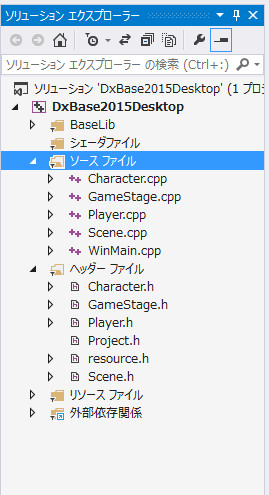
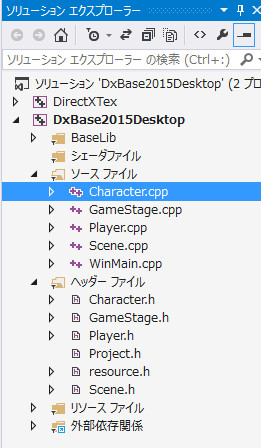
ドキュメント修正とチュートリアル003修正

diff --git a/Documents/00_03.html b/Documents/00_03.html
@@ -1,0 +1,104 @@
+<!DOCTYPE HTML PUBLIC "-//W3C//DTD HTML 4.01 Trからのぷろansitional//EN">
+<html lang="ja">
+<head>
+<meta http-equiv="Content-Type" content="text/html; charset=utf-8">
+<link href="css/main.css" rel="stylesheet" type="text/css">
+<title>DxBase2015ドキュメント(2015年)</title>
+</head>
+<body>
+<!-- 全体コンテナ　-->
+<div id="container">
+<div id="header">
+<h2>０．チュートリアル</h2>
+</div>
+<!-- コンテンツ　-->
+<div id="contents">
+<h3>００３．オブジェクトを動かす</h3>
+<br />
+<h4>Transformコンポーネントによる移動</h4>
+　前項で紹介したような配置されたオブジェクト（配置オブジェクト）を移動したり回転させたりする場合は、いろいろな方法がありますが、一番簡単なのは<b>Transformコンポーネント</b>のパラメータを変化させる方法でしょう。<br />
+　<b>Tutorial003ディレクトリ</b>内のソリューション<b>DxBase2015Desktop.sln</b>を<b>VisualStdio2013</b>で開くと以下のような実行画面が出てきて、ボックスが左右に移動します。
+<p>&nbsp;</p>
+<img src="img/0003a.jpg" width="80%"/>
+<p>図0003a</p>
+<p>&nbsp;</p>
+　これは、配置オブジェクトの<b>TransformコンポーネントPosition</b>を変化させて実装しています。<br /
+>
+<br />
+<h4>Update()仮想関数</h4>
+　ボックスを作成するには、前項のように、<b>Character.h、Character.cpp</b>に、<b>Boxクラス</b>を記述して、<b>GameStage.h、GameStage.cpp</b>で、<b>AddGameObjec()テンプレート関数</b>を呼び出します。ここまでは同じです。<br />
+　配置されたオブジェクトを変化させるには<b>Update()仮想関数を多重定義（オーバーライド）</b>します。<br />
+　以下は、<b>Character.h</b>に記述された、<b>BoxクラスのUpdate()関数の宣言</b>です。
+<div class="box1">
+<pre>
+    //更新
+    virtual void Update() override;
+</pre>
+</div>
+　仮想関数のオーバーライドをあらわす<b>override</b>は、C++11になって出てきた文法です。間違った多重定義があった場合、コンパイラがエラーにしてくれますので、つけるようにしましょう。<br />
+　そして、以下は、<b>BoxクラスのUpdate()関数の実体</b>です。<b>Character.cpp</b>に記述されています。<div class="box1">
+<pre>
+//更新
+void Box::Update(){
+    //前回のターンからの経過時間を求める
+    float ElapsedTime = App::GetApp()->GetElapsedTime();
+    auto PtrTransform = GetComponent&lt;Transform>();
+    //位置の取得
+    auto Pos = PtrTransform->GetPosition();
+    //値を変化させる
+    Pos.x += m_Span * ElapsedTime;
+    if (abs(Pos.x) > 3.0f){
+        //もし左右3.0を超えたら反転
+        m_Span *= -1.0f;
+    }
+    //新しい位置を設定
+    PtrTransform->SetPosition(Pos);
+}
+</pre>
+</div>
+　<b>Update()仮想関数</b>は、<b>ターン</b>のたびに呼ばれます。<b>ターン</b>というのは、おおむね60分の1秒に1度呼ばれる、処理のタイミングです。<br />
+　ほとんどのゲームソフトは、<b>無限ループで動作</b>し続けていて、その間に更新処理や描画処理を行います。ですからゲームのプログラミングの大きなウェイトはその<b>ターン毎の処理を記述する</b>ということです。<br />
+　アニメーションは、映画の1コマ1コマを変化させて動きを演出します。映画の場合は1コマは24分の1秒です。<br />
+　ゲームの場合は、固定長のターンと可変長のターンがあります。<b>DxBase2015</b>の場合は、デフォルトは可変長のターンです。Windowsマシンは、CPUやアクセラレータのスペックによりマシンごとの処理速度が異なります。そのため、ターンの間隔を計算に入れないと、速いマシンと遅いマシンとの間にスピードが変わってしまいます。<br />
+　その差を埋めるのが
+<div class="box1">
+<pre>
+    //前回のターンからの経過時間を求める
+    float ElapsedTime = App::GetApp()->GetElapsedTime();
+</pre>
+</div>
+　で取得している<b>ElapsedTime</b>です。これは<b>前回のターンからの経過時間</b>が取得できます。この値を状態変化の計算に反映させることで、マシンごとによる動作速度の違いを吸収します。<br />
+　位置の変化は、<b>現在のポジションを取り出して、変化をさせた後、変化後のポジションを設定する</b>というコードを記述します。<br />
+　それを行っているのが
+<div class="box1">
+<pre>
+    //位置の取得
+    auto Pos = PtrTransform->GetPosition();
+    //値を変化させる
+    Pos.x += m_Span * ElapsedTime;
+    if (abs(Pos.x) > 3.0f){
+        //もし左右3.0を超えたら反転
+        m_Span *= -1.0f;
+    }
+    //新しい位置を設定
+    PtrTransform->SetPosition(Pos);
+</pre>
+</div>
+　ということです。<br />
+<br />
+</div>
+<!-- /コンテンツ　-->
+<hr>
+<!-- フッタ　-->
+<ul class="foot_navi">
+<li><a href="00_02.html">前ページ</a></li>
+<li><a href="index.html">目次</a></li>
+<li><a href="00_04.html">次ページ</a></li>
+</ul>
+<!-- /フッタ　-->
+
+
+</div>
+<!-- /全体コンテナ　-->
+</body>
+</html>

diff --git a/Documents/00_01.html b/Documents/00_01.html
@@ -31,6 +31,7 @@
 <img src="img/0001b.jpg" width="40%"/>
 <p>図0000b</p>
 <p>&nbsp;</p>
+　まず、<b>DirectXTXプロジェクト</b>はテクスチャ読み込みに利用している、Microsoft社の<b>DirectXTX</b>です。ソースファイルで提供されているので、ソリューションに含めています。リビルドのときに、<b>libファイル</b>を作成しています。<br />
 　<b>ソースファイル</b>というフィルターには、ゲームコンテンツのソースファイル、<b>ヘッダーファイル</b>というフィルターには、ゲームコンテンツのヘッダファイルが入っています。<b>シェーダファイル</b>はゲームコンテンツで作成する独自のシェーダーを入れます。今は独自のシェーダーはないので空になってます。<br />
 　<b>BaseLib</b>というフィルタには<b>フレームワーク本体</b>が入ってます。フレームワークはチュートリアルやサンプルで共通で使用するので、それらのソリューションディレクトリの外に置かれています。<br/>
 <br />

diff --git a/Documents/index.html b/Documents/index.html
@@ -15,6 +15,7 @@
 </div>
 <!-- コンテンツ　-->
 <div id="contents">
+<h4><a href="setup.html">セットアップ</h4>
 <h4><a href="00_00.html">はじめに</h4>
 <h4><a href="00_01.html">０．チュートリアル</h4>
 <ul class="mokuji">
